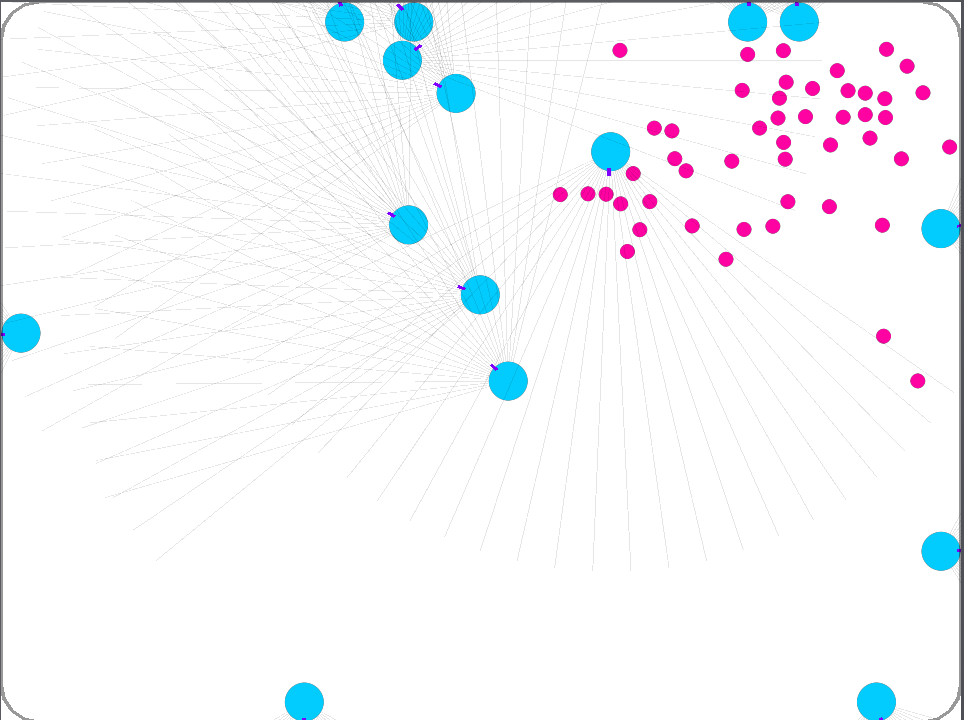
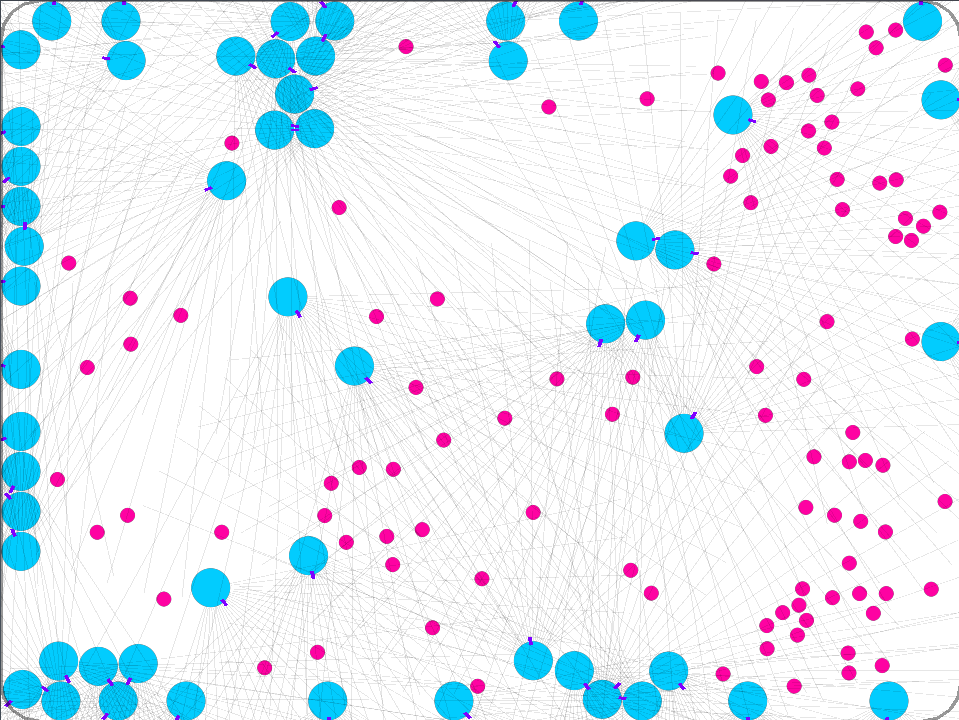
camera ready version

diff --git a/src/first_submission.tex b/src/first_submission.tex
@@ -129,7 +129,7 @@ The birth rate $b(e)$ increases with $e$ following a sigmoidal curve where $\kap
 We designed a continuous 2D environment shown in \Cref{figure:env}. Blue circles indicate agents, red circles indicate foods, and the outer gray lines are impassable walls. The environment is implemented by a 2D rigid-body physics simulation. Agents can move by producing driving forces on the left and right sides of the body, as shown in \Cref{figure:env-discr}. An agent has multiple range sensors in its front that can sense the type and distance to the closest object within $120$ degree. Sensible objects include foods, other agents, and walls. In environments with poor or poisonous foods, agents can sense them separately from normal foods. They can also sense the collision with each object and the approximate location of the collision with a resolution of $60$ degree, as shown in \Cref{figure:env-discr}.
 
 % This eat-driven emergence is not consistent with the growth model below. Better report the actual food-producing process rather than theoretical approximation.
-The agent can eat food by touching it within $120$ degrees of the front as shown in the right figure in \Cref{figure:env-discr}. By eating one food, it gains energy $e_{\mathrm{food}}$. We use $e_{\mathrm{food}} = 1$ in our experiments. In experiments with nutrient-poor or poisonous foods, they have different energy gain $e_{\mathrm{poor}} = 0.2$ and $e_{\mathrm{poison}} = -0.4$. After foods are eaten, they are regenerated in a random place. To regulate the rate of food regeneration, we maintain the internal food number $n_{t}$ at time $t$ which follows a linear growth function: $n_{t + 1} = \textrm{min}(n_{t} + g - n_{t}^{\mathrm{eaten}}, n_{\mathrm{max}})$, where $g$ is the growth rate, $n_{\mathrm{max}}$ is the capacity of food, and $n_{t}^{\mathrm{eaten}}$ is the number of eaten foods at time $t$. Food is regenerated when the integer part of $n^{t}$ exceeds the number of foods in the environment. We use $n_{\mathrm{max}} = 100$ and $g = 0.02$ in the most of our experiments.
+The agent can eat food by touching it within $120$ degrees of the front as shown in the right figure in \Cref{figure:env-discr}. By eating one food, it gains energy $e_{\mathrm{food}}$. We use $e_{\mathrm{food}} = 1$ in our experiments. In experiments with less nutrient-poor or poisonous foods, they have different energy gain $e_{\mathrm{poor}} = 0.2$ and $e_{\mathrm{poison}} = -0.4$. After foods are eaten, they are regenerated in a random place. To regulate the rate of food regeneration, we maintain the internal food number $n_{t}$ at time $t$ which follows a logistic growth function: $n_{t + 1} = n_{t} + gn_{t}(1 - \frac{n_{t}}{n_{\mathrm{max}}}) - n_{t}^{\mathrm{eaten}}$, where $g$ is the growth rate, $n_{\mathrm{max}}$ is the capacity of food, and $n_{t}^{\mathrm{eaten}}$ is the number of eaten foods at time $t$. Food is regenerated when the integer part of $n^{t}$ is more than the actual number of foods in the environment. We use $n_{\mathrm{max}} = 50$ and $g = 0.01$ in our experimens.
 
 The agent consumes energy via active and basic metabolism. At each step $t$, An agent $i$ losts energy $e_{\mathrm{act}} |a_{t}^{i}|$, where $|a_{t}^{i}|$ is the Euclid norm of the agent's motor output $a_{t}^{i}$ and $e_{\mathrm{act}}$ is a scaling coefficient. In addition, it also consumes energy $e_{\mathrm{basic}}$ at every step. In our experiments, we use $e_{\mathrm{act}} = \num{2e-5}$ and $e_{\mathrm{basic}} = 0.001$, leading to the consumption of $0.002 \sim 0.003$ energy by one step. It means that agents need to eat food at least once in $500$ or $1000$ steps to maintain their energy level.
 
@@ -215,58 +215,115 @@ We use Proximal Policy Optimization \citep{schulmanProximalPolicyOptimization201
 \paragraph{Simulation Procedure}
 We show the pseudocode of our evolutionary simulation procedure in \Cref{alg:reward-evo}. Each agent has reward parameters $w_{\mathrm{food}}$, $w_{\mathrm{act}}$, and MLP policy. At each step, it observes sensory inputs from the environment and takes action using the MLP policy. Once in $N$ steps, the agent updates its policy via RL using the past $N$ step experiences. After environmental interaction, we evaluate all agents using the birth function $b$ and hazard function $h$ to decide whether the agent makes a child or dies. The new agent inherits a fraction of the parent's energy and mutated reward function.
 
-
-\begin{table}[t]
-  \centering
-  \begin{tabular}{llc}
-    \toprule
-    $e_{\mathrm{basic}}$ & $e_{\mathrm{act}}$ & Extinction rate \\
-    \midrule
-    $\num{1e-3}$ & $\num{3e-5}$ & $50\%$ \\
-    $0.001$ & $\num{2e-5}$ & $0\%$ \\
-    \bottomrule
-  \end{tabular}
-  \caption{Extinction Rate}\label{table:er}
-\end{table}
-
 \begin{figure}[t]
   \centering
-  \includegraphics[width=8cm]{comp2d-baseline.png}
+  \includegraphics[width=8cm]{baseline-2d-sparse.png}
   \caption{
-    Evolved rewards of the last $5000$ agents in the baseline setting.
+    Evolved rewards of agents born in the last $\num{1e6}$ steps in the baseline setting.
     The x-axis shows the weight for the food reward ($w_{\mathrm{food}}$), and the y-axis shows the weight for the action reward ($w_{\mathrm{act}}$).
     Different colors and marker shapes correspond to runs with different random seeds.
   }\label{figure:result-baseline}
 \end{figure}
 
 \section{Results}
-In this section, we show our simulation results. We first show that biologically plausible reward functions evolve in our framework and then examine the effect of several environmental conditions, including food density and food distribution. Furthermore, we conduct experiments with poor or poisonous foods and examine their effect on evolved rewards.
+In this section, we show our simulation results. We first show that biologically plausible reward functions evolve in our framework and then examine the effect of several environmental conditions, including metabolic balance, food density, and food relocation. Furthermore, we conduct experiments with poor or poisonous foods and examine their effect on evolved rewards.
 
-As a baseline environment, we use the setting where food is regenerated in a uniformly random location in the 2D enviroment, as the left figure in \Cref{figure:env} shows. All experiments start from $50$ agents with an energy level of $20.0$. Birth, hazard, and metabolic parameters are tuned so that the population size is kept around $130\sim 150$ through evolution. Notably,
-
-Initial reward weights are sampled from a zero-mean Gaussian distribution with a standard deviation of $0.1$, so they should take values close to $0$. We conducted about ten million steps ($\num{1024e4}$) of the simulation, resulting in $300$ to $400$ generations, which takes $14\sim16$ hours on NVIDIA P100 GPU.
+As a baseline environment, we use the setting where food is always regenerated in the upper right area of the 2D environment, as the left figure in \Cref{figure:env} shows. All experiments start from $50$ agents with an energy level of $40.0$. Birth and hazard parameters in \Cref{table:hb} are tuned so that the population size is around $130\sim 150$ through evolution. Initial reward weights are sampled from a zero-mean Gaussian distribution with a standard deviation of $0.1$, so they should take values close to $0$. We conducted about ten million steps ($\num{1024e4}$) of the simulation, resulting in $300$ to $400$ generations, which takes $14\sim16$ hours on NVIDIA P100 GPU.
 
 \Cref{figure:result-baseline} shows the reward weights of agents born in the last $1\%$ of steps ($\num{1e5}$ steps) with 5 random seeds in the baseline environment. Food rewards are almost positive in all 5 runs, and action rewards tend to be negative in the majority of runs. Thus, we can say that agents have acquired rewards that contribute to increasing their energy levels through evolution from scratch. However, there are some cases where action rewards are largely positive, which can lead to too much energy consumption and early death. Especially in the run with seed $3$, most of the agents have largely positive action rewards. This actually affects the population size badly. This run has the lowest average population size of $120.6$ in the last $\num{3e6}$ steps, while it is from $136$ to $149$ in other runs with negative action rewards. We suspect that this unfavorable reward for population growth can be chosen when there is no competition with other species and sufficient energy resources.
 
 \begin{figure}[t]
-  \centering
-  \includegraphics[width=8cm]{comp2d-envsize.png}
+  \begin{subfigure}[t]{8cm}
+    \centering
+    \includegraphics[width=8cm]{metabo-balance.png}
+  \end{subfigure}
   \caption{
-    Comparison of evolved rewards of the last $5000$ agents with multiple environment sizes.
-    The x-axis shows the weight for the food reward ($w_{\mathrm{food}}$), and the y-axis shows the weight for the action reward ($w_{\mathrm{act}}$).
-    Different colors correspond to different environment sizes.
-  }\label{figure:result-envsize}
+    Different metabolic balances we consider in experiments. The x-axis shows the action magnitude, and the y-axis shows the corresponding energy consumption.
+  }\label{figure:metabo-balance}
 \end{figure}
 
 \begin{figure}[t]
   \centering
-  \includegraphics[width=8cm]{dyn-envsize.png}
-  \caption{}\label{figure:result-envsize-dyn}
+  \includegraphics[width=8cm]{comp-metabo.png}
+  \caption{
+    Comparison of evolved rewards between different metabolic balances by different colors.
+    The upper row shows the reward weight for food ($w_{\mathrm{food}}$), and the lower row shows the reward weight for action ($w_{\mathrm{act}}$).
+    Each line shows the reward weight averaged over all agents alive at that time, while thin lines show the averages within one random seed.
+  }\label{figure:result-metabolism}
 \end{figure}
 
-\paragraph{Effect of Food Density}
+\paragraph{Effect of Metabolic Balance}
+To investigate the effect of metabolic balance on rewards, we run simulations with two different metabolic balances. One has double active metabolism ($e_{\mathrm{act}} = \num{4e-5}$, \texttt{x2 Active Metabolism}), and the other has double the basic metabolism ($e_{\mathrm{basic}} = 0.002$, \texttt{x2 Basic Metabolism}). We show the difference between these two settings in \Cref{figure:metabo-balance}. While \texttt{x2 Basic Metabolism} consumes more energy for smaller action magnitude, \texttt{x2 Active Metabolism} consumes more when the action magnitude is larger than $50$.
+
+
+\begin{figure}[t]
+  \begin{subfigure}[t]{7cm}
+    \centering
+    \includegraphics[width=7cm]{age-act.png}
+  \end{subfigure}
+  \caption{
+    Change of the average action magnitude over aging only for agents who lived longer than $\num{1e5}$ steps.
+    Specifically, agents with more than $60$ average action norm and more than $10$ children are selected for visualization.
+  }\label{figure:actnorm-age}
+\end{figure}
+
+\Cref{figure:result-metabolism} compares the results between the baseline, \texttt{x2 Active Metabolism}, and \texttt{x2 Basic Metabolism}. The upper row shows the reward weight for food ($w_{\mathrm{food}}$), and the lower row shows the reward weight for action ($w_{\mathrm{act}}$). Each line shows the reward weight averaged over all agents alive at that time, while thin lines show the average within one random seed, resulting in five lines per different setting. In the two settings other than the baseline, we don't see any case where action rewards are significantly positive because of more severe energy consumption. Interestingly, we observe some cases with large food rewards and small action rewards only when the basic metabolism is doubled. To investigate the reason, we plot the learning curve for the average of action magnitude ($|a_{t}^{i}|$) over age for agents that lived longer than $1e5$ steps. We can observe that the average action magnitude is lower than $50$ for agents in their early ages, and doubling basic metabolism is harsher for younger agents. Surprisingly, in the double basic metabolism setting, agents tend to output larger actions, especially in their later lives, while they have more negative action rewards. This result shows that the strongness of survival pressure at early ages affects more on the shape of the reward function. It is also interesting that none of the agents in the baseline lived longer than $\num{5e8}$ steps, which implies that more harsh environmental conditions can lead to better rewards in terms of an individual's longevity.
+
+\begin{figure}[t]
+  \begin{subfigure}[t]{4cm}
+    \centering
+    \includegraphics[width=4cm]{moving-annot-min.png}
+  \end{subfigure}
+  \begin{subfigure}[t]{4cm}
+    \centering
+    \includegraphics[width=4cm]{lv-annot-min.png}
+  \end{subfigure}
+  \caption{
+    \textbf{Left:} Environment with food relocation.
+    \textbf{Right:} Environment with spread foods.
+  }\label{figure:foodloc}
+\end{figure}
+
+\begin{figure}[ht]
+  \centering
+  \includegraphics[width=8cm]{comp-loc.png}
+  \caption{
+    Comparison of evolved rewards between different food settings by different colors.
+    The upper row shows the reward weight for food ($w_{\mathrm{food}}$), and the lower row shows the reward weight for action ($w_{\mathrm{act}}$).
+    Each line shows the reward weight averaged over all agents alive at that time, while thin lines show the averages within one random seed.
+  }\label{figure:result-foodloc}
+\end{figure}
+
+\begin{figure}[!htb]
+  \centering
+  \includegraphics[width=8cm]{moving-nfoods.png}
+  \caption{
+    Comparison of the average number of foods that agents ate between different food locations.
+    Rolling means over 10000 steps are taken for clear visualization.
+  }\label{figure:result-nfood}
+\end{figure}
+
+\paragraph{Effect of Food Density and Relocation}
+In the baseline setting, the center of the food location is a fixed location with a small variance, which can make the agents less active. The penalty for motor action can be smaller when agents need to hunt foods more actively. To confirm this hypothesis, we compare the evolved rewards in the baseline environment with ones in the environment where the food relocation happens clockwise (\texttt{Food Reloc.}) and the environment with more spread foods (\texttt{Spread Food}) shown in \Cref{figure:foodloc}. Note that in the food relocation setting, the center of food reproduction moves slightly clockwise after 100 foods are eaten.
+
+We show the results in \Cref{figure:result-foodloc}. As our hypothesis suggests, action rewards are more likely to be positive in the spread food setting. However, contradicting our hypothesis, action rewards tend to be more negative in the food reloaction. To investigate the reason, we plot the rolling mean of the number of foods that agents ate in \Cref{figure:result-nfood}. We can see that getting food is more difficult in the \texttt{Food Reloc.} setting, which may lead to more negative action rewards.
 
 \paragraph{Effect of Poor and Poisonous Foods}
+
+\begin{figure}[t]
+  \begin{subfigure}[t]{4cm}
+    \centering
+    \includegraphics[width=4cm]{poor-annot-min.png}
+  \end{subfigure}
+  \begin{subfigure}[t]{4cm}
+    \centering
+    \includegraphics[width=4cm]{poison-annot-min.png}
+  \end{subfigure}
+  \caption{
+    \textbf{Left:} Environment with poor foods.
+    \textbf{Right:} Environment with poisonous foods.
+  }\label{figure:pp}
+\end{figure}
 
 \begin{table}[t]
   \begin{subtable}[h]{0.45\columnwidth}
@@ -275,8 +332,10 @@ Initial reward weights are sampled from a zero-mean Gaussian distribution with a
       \toprule
       Parameter & Value \\
       \midrule
-      $n_{\textrm{max}}^{\textrm{normal}}$ & 90 \\
-      $n_{\textrm{max}}^{\textrm{poor}}$ & 30 \\
+      $n_{\textrm{max}}^{\textrm{normal}}$ & 40\\
+      $g^{\textrm{normal}}$ & 0.01 \\
+      $n_{\textrm{max}}^{\textrm{poor}}$ & 60 \\
+      $g^{\textrm{poor}}$ & 0.02 \\
       \bottomrule
     \end{tabular}
   \end{subtable}
@@ -286,8 +345,10 @@ Initial reward weights are sampled from a zero-mean Gaussian distribution with a
       \toprule
       Parameter & Value \\
       \midrule
-      $n_{\textrm{max}}^{\textrm{normal}}$ & 120 \\
+      $n_{\textrm{max}}^{\textrm{normal}}$ & 60\\
+      $g^{\textrm{normal}}$ & 0.01 \\
       $n_{\textrm{max}}^{\textrm{poison}}$ & 40 \\
+      $g^{\textrm{poison}}$ & 0.01 \\
       \bottomrule
     \end{tabular}
   \end{subtable}
@@ -297,6 +358,55 @@ Initial reward weights are sampled from a zero-mean Gaussian distribution with a
   }\label{table:pp}
 \end{table}
 
+In the experiments so far, there is only one kind of food with $e_{\mathrm{food}} = 1.0$ in the environment. However, one role of our reward system is to distinguish between different external stimuli. For example, our food reward system helps us eat nutritious food, avoiding poisonous foods. Therefore, we conduct simulations with poor and poisonous foods, of which the energy gains are $e_{\mathrm{poor}} = 0.2$ and $e_{\mathrm{poison}} = -0.4$. In \Cref{figure:pp}, we show environments with poor and poisonous rewards. In those environments, we fix the center of poor or poisonous food location at the upper left. The number of maximum foods is smaller in the environment with poor foods, and there are more normal foods in the environment with poisonous foods as shown in \Cref{table:pp}, so the overall energy supply should be roughly the same.
+
+\begin{figure}[t]
+  \centering
+  \includegraphics[width=8cm]{dyn-poor.png}
+  \caption{
+    Evolved rewards with poor foods.
+    From top to bottom, each row shows the reward weight for food ($w_{\mathrm{food}}$), the reward weight for poor food ($w_{\mathrm{poor}}$), and the reward weight for action ($w_{\mathrm{act}}$).
+    Each line shows the reward weight averaged over all agents alive at that time, while thin lines show the averages within one random seed.
+  }\label{figure:result-poor}
+\end{figure}
+
+\begin{figure}[t]
+  \centering
+  \includegraphics[width=6cm]{poor-pop.png}
+  \caption{
+    The population of agents with positive or negative rewards for poor foods in each seed.
+    Blue lines show the population of agents with positive rewards for poor foods, while orange lines show the population with negative ones.
+  }\label{figure:pop-poor}
+\end{figure}
+
+\Cref{figure:result-poor} shows the evolution of reward weights with poor foods. The thick line shows the reward weight averaged over all agents alive at that time, while the thin lines show the average between each random seed. From top to bottom, each row shows the reward weight for food ($w_{\mathrm{food}}$), the reward weight for poor food ($w_{\mathrm{poor}}$), and the reward weight for action ($w_{\mathrm{act}}$). Same as in previous experiments, we used $5$ for different random seeds. We can see that the reward weight for normal food ($w_{\mathrm{food}}$) is consistently positive, while the other two rewards have great diversity. Thus, we can say that rewards for actions and poor foods are not very important in this environment, even if they help conserve or acquire energy.
+
+To see whether speciation in terms of different rewards for poor foods happening, we compare the population of groups with positive or negative poor food rewards in \Cref{figure:pop-poor}.
+Interestingly, we rarely see that the groups with different poor food rewards co-exist, although it is benefitial to avoiding population densification. They sometimes co-exist, but eventually, one group take over others. Thus, we can see that there is rather an advantage in forming groups with a single genetic population in this environment. This result suggests that speciation may need alternative factors, such as geographic isolation and sexual reproduction.
+
+\begin{figure}[t]
+  \centering
+  \includegraphics[width=8cm]{dyn-poison.png}
+  \caption{
+    Evolved rewards with poisonous foods.
+    From top to bottom, each row shows the reward weight for food ($w_{\mathrm{food}}$), the reward weight for poisonous food ($w_{\mathrm{poison}}$), and the reward weight for action ($w_{\mathrm{act}}$).
+    Each line shows the reward weight averaged over all agents alive at that time, while thin lines show the averages within one random seed.
+  }\label{figure:result-poison}
+\end{figure}
+
+\begin{figure}[t]
+  \centering
+  \includegraphics[width=6cm]{poison-pop.png}
+  \caption{
+    The population of agents with positive or negative rewards for poor foods.
+    Blue lines show the population of agents with positive poison rewards, while orange lines show the population of agents with negative ones.
+  }\label{figure:pop-poison}
+\end{figure}
+
+
+\Cref{figure:result-poison} shows the evolution of reward weights with poisonous foods. Same as \Cref{figure:result-poor}, the thick line shows the reward weight averaged over all agents alive at that time, while thin lines show the average between each random seed. Again, we can see that the reward weight for normal food ($w_{\mathrm{food}}$) is consistently positive. The other two rewards are unstable and diverse, but we see that rewards for poisonous foods and actions are less often positive. We suspect that the existence of poisonous foods gives stronger selection pressure to agents.
+
+We compare the population of groups with positive or negative poison rewards in \Cref{figure:pop-poison}. We can see the same tendency as the case with poor food. We rarely see the co-existence of agents with different poison rewards, and a single genetic population is preferred.
 
 \section{Conclusion}
 In this paper, we propose a distributed evolution framework with an energy-based birth and death model to study the evolution of reward function. Our results show that biologically reasonable reward functions can evolve from randomly initialized ones. We also find that some environmental conditions, including metabolic balance, food density, and food relocation, can change the selection pressure and influence action rewards, while food rewards are consistently positive. Moreover, we examine the evolution of rewards for poor and poisonous rewards, finding that rewards for such less important foods can be unstable, although rewards for normal foods are consistently positive. These results suggest that the evolution of reward function is led by one nominal reward, in our case, the reward for normal food. The other reward components can be quite unstable even if they are beneficial for survival. Overall, our results demonstrate the usefulness of our framework to study the evolution of rewards. One interesting future direction is to see the effect of competition between two species, for example, in a predator-and-pray relationship. That can add a stronger motivation to evolve better rewards for competition.

diff --git a/main.tex b/main.tex
@@ -99,7 +99,7 @@
 \makeatother
 %%%%% End: Pseudo Codes
 
-\title{Distributed Evolution of Food Reward and Fatigue based on an Energy-Based Birth and Death Model}
+\title{Evolution of Food Reward and Fatigue by Simulting Birth and Death}
 \author{
   Yuji Kanagawa$^{1}$ \and
   Kenji Doya$^{1}$ \\
